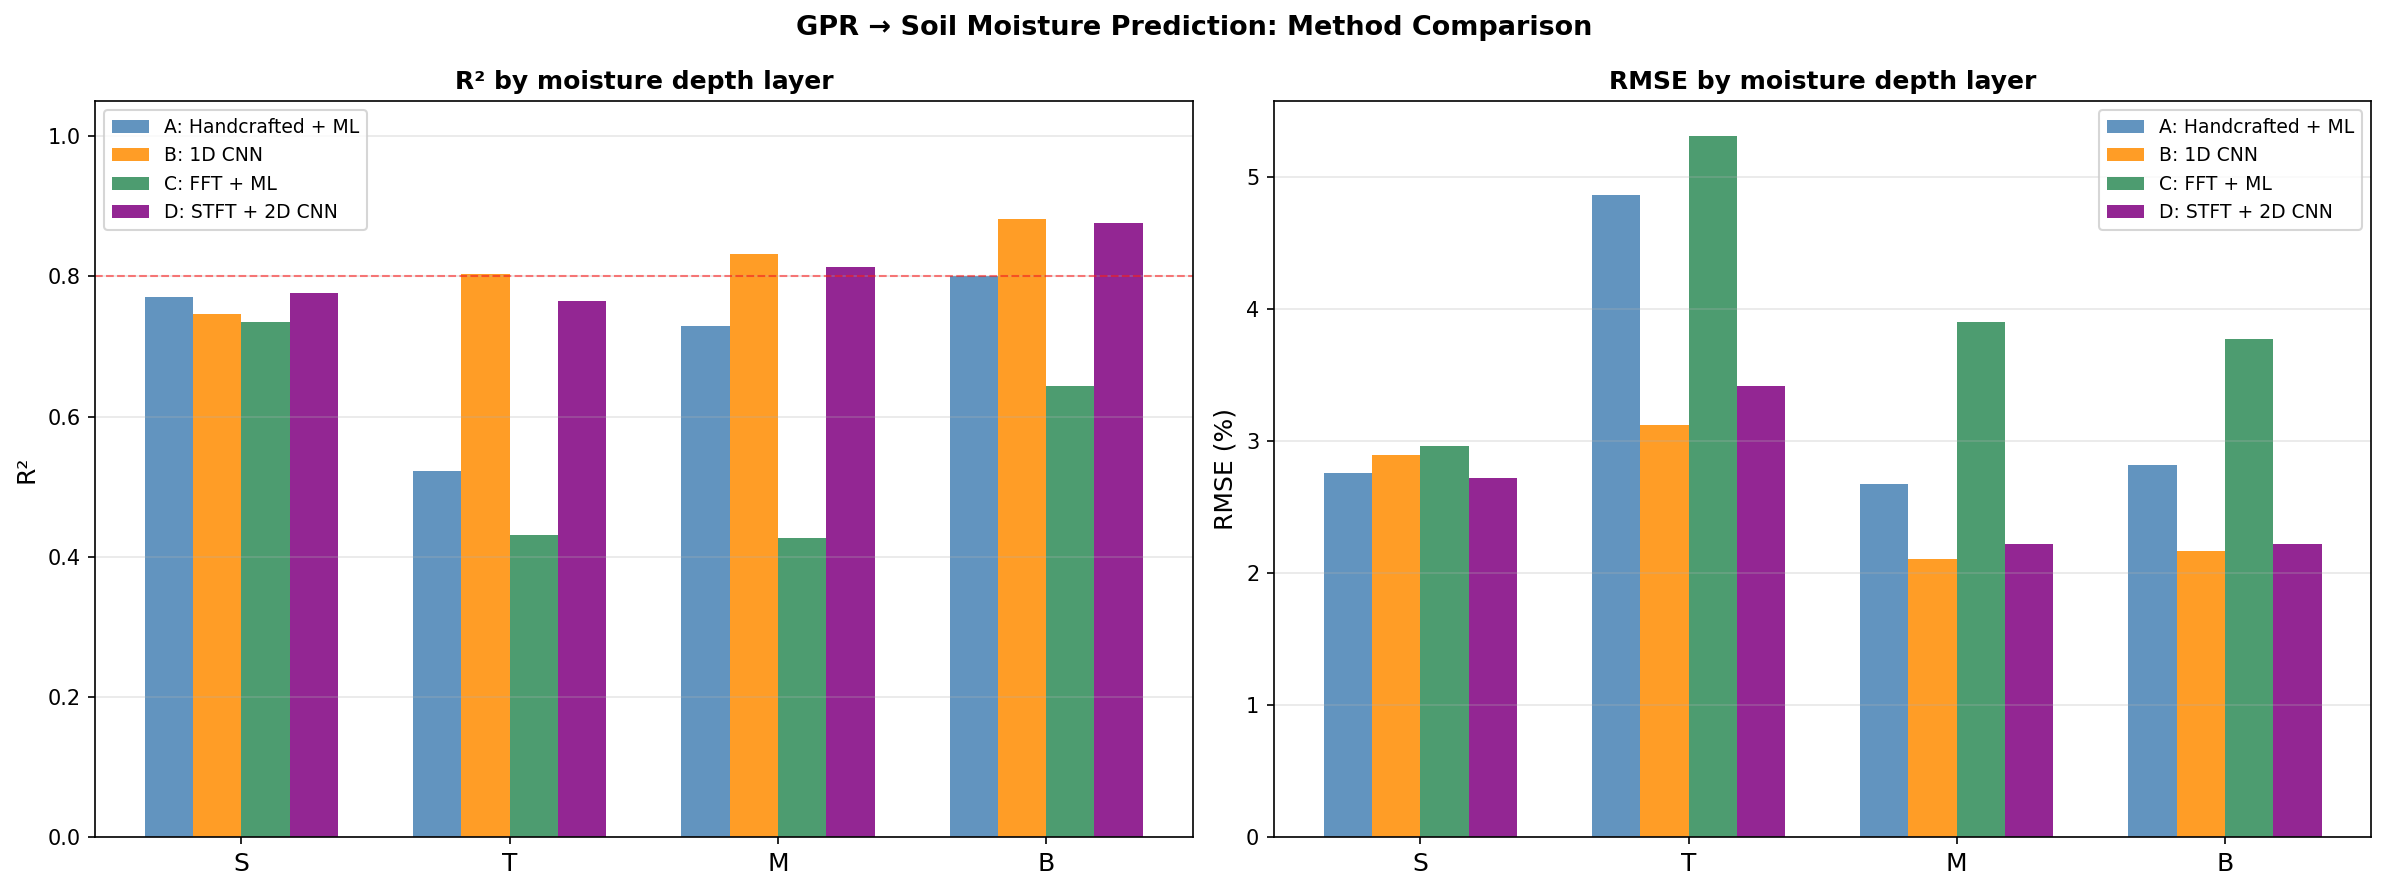
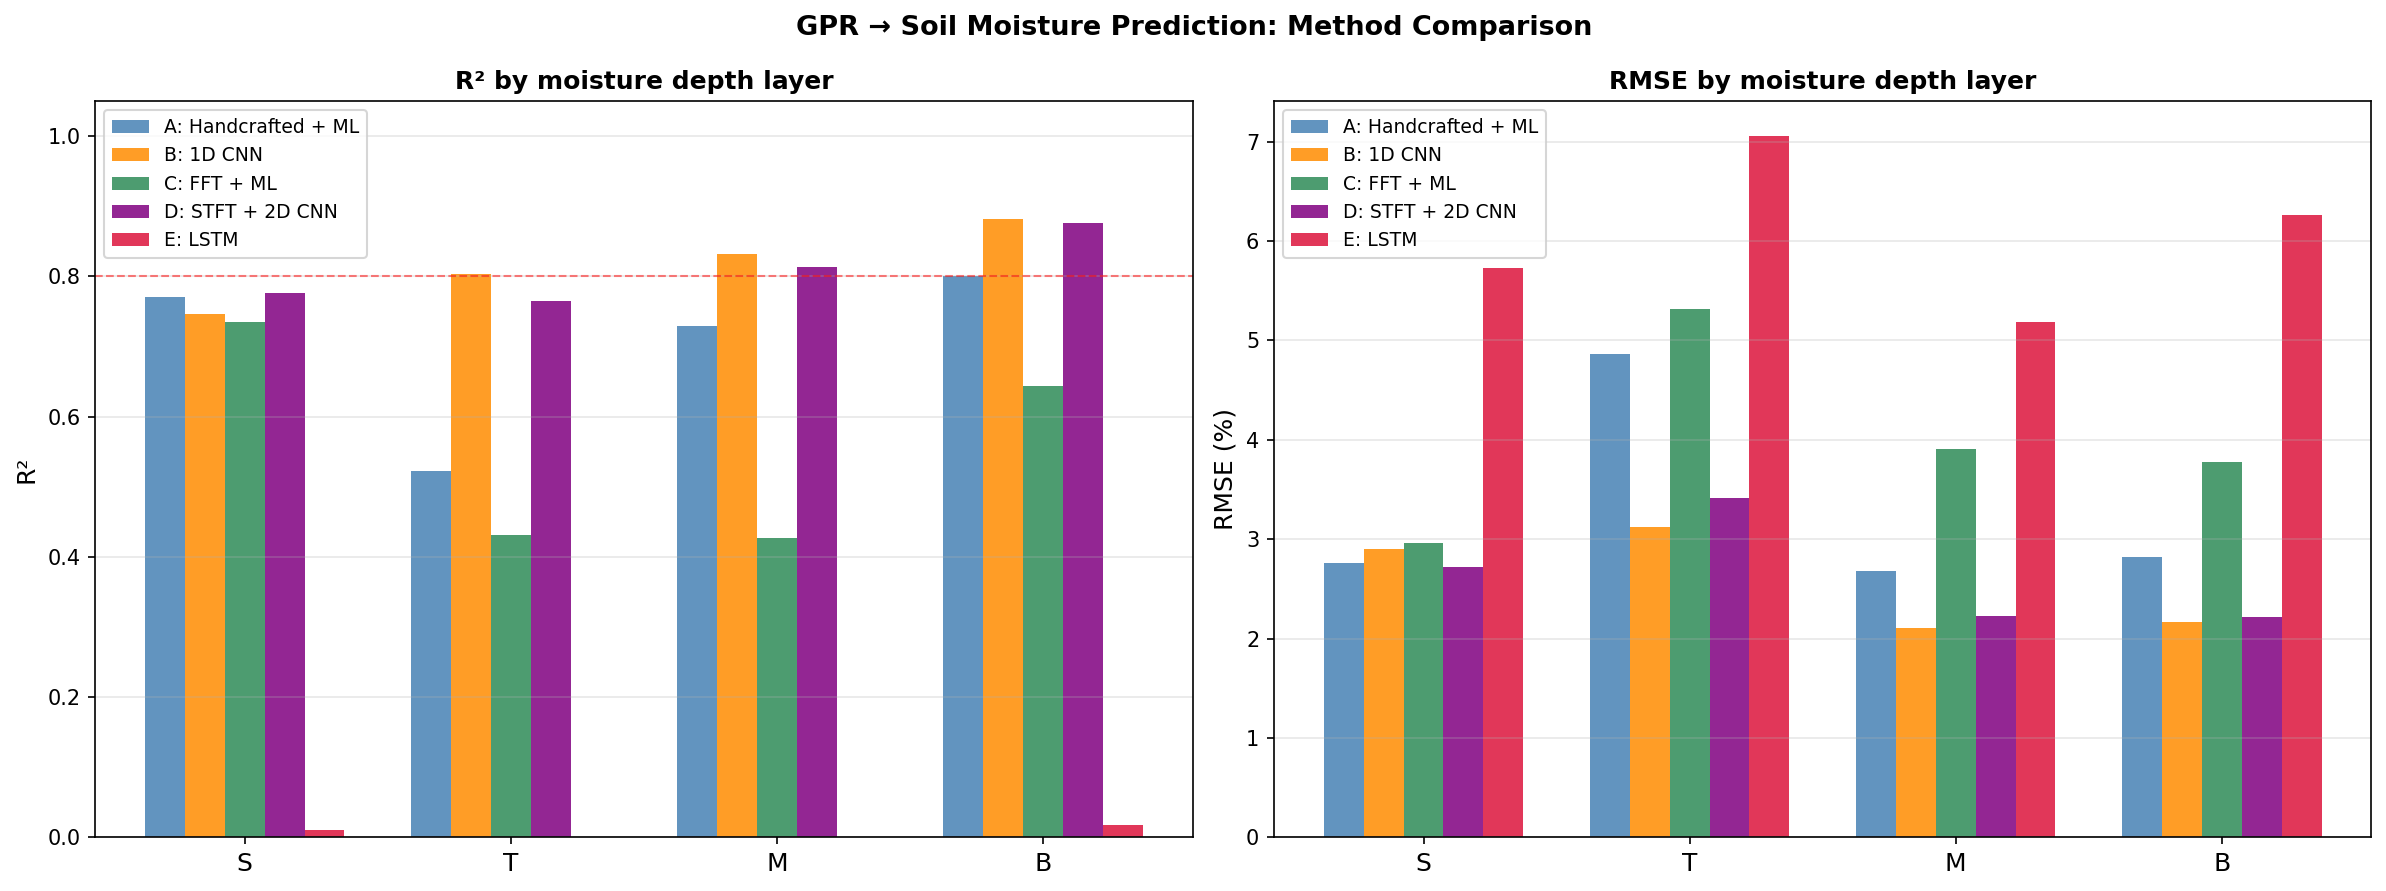
Add LSTM (Method E) and update summary comparison
LSTM R2 near zero across all layers — expected with only 89 training
samples; too few for a recurrent model to generalize. Confirms that
1D CNN is a better fit for this small-dataset regime.

diff --git a/method_e_lstm.py b/method_e_lstm.py
@@ -1,0 +1,142 @@
+"""
+Method E: LSTM — raw aligned A-scan (256 timesteps) → moisture regression
+Input shape: (batch, 256, 1)  — sequence of 256 amplitude samples
+"""
+import numpy as np
+import matplotlib
+matplotlib.use('Agg')
+import matplotlib.pyplot as plt
+from sklearn.metrics import r2_score, mean_squared_error
+
+import torch
+import torch.nn as nn
+from torch.utils.data import TensorDataset, DataLoader
+
+LAYERS = ['S', 'T', 'M', 'B']
+RANDOM_SEED = 42
+torch.manual_seed(RANDOM_SEED)
+np.random.seed(RANDOM_SEED)
+
+X_norm  = np.load('X_norm.npy')       # (112, 256)
+y       = np.load('y_moisture.npy')   # (112, 4)
+idx_tr  = np.load('idx_train.npy')
+idx_te  = np.load('idx_test.npy')
+
+# LSTM expects (batch, seq_len, features) → (N, 256, 1)
+X_tr = torch.tensor(X_norm[idx_tr, :, None], dtype=torch.float32)
+X_te = torch.tensor(X_norm[idx_te, :, None], dtype=torch.float32)
+y_tr = torch.tensor(y[idx_tr], dtype=torch.float32)
+y_te = torch.tensor(y[idx_te], dtype=torch.float32)
+
+y_mean = y_tr.mean(0)
+y_std  = y_tr.std(0).clamp(min=1e-6)
+y_tr_n = (y_tr - y_mean) / y_std
+y_te_n = (y_te - y_mean) / y_std
+
+train_ds = TensorDataset(X_tr, y_tr_n)
+train_dl = DataLoader(train_ds, batch_size=16, shuffle=True)
+
+
+# ── Model ─────────────────────────────────────────────────────────────────
+class LSTMRegressor(nn.Module):
+    def __init__(self, input_size=1, hidden_size=64, num_layers=2, dropout=0.3):
+        super().__init__()
+        self.lstm = nn.LSTM(
+            input_size=input_size,
+            hidden_size=hidden_size,
+            num_layers=num_layers,
+            batch_first=True,
+            dropout=dropout if num_layers > 1 else 0.0,
+        )
+        self.head = nn.Sequential(
+            nn.Linear(hidden_size, 32),
+            nn.ReLU(),
+            nn.Dropout(dropout),
+            nn.Linear(32, 4),
+        )
+
+    def forward(self, x):
+        # x: (batch, seq, 1)
+        out, _ = self.lstm(x)      # out: (batch, seq, hidden)
+        last   = out[:, -1, :]     # take last timestep
+        return self.head(last)
+
+
+model = LSTMRegressor(hidden_size=64, num_layers=2, dropout=0.3)
+optimizer = torch.optim.Adam(model.parameters(), lr=1e-3, weight_decay=1e-4)
+criterion = nn.MSELoss()
+
+best_val_loss = float('inf')
+best_state    = None
+patience = 60; wait = 0
+train_losses = []; val_losses = []
+
+for epoch in range(600):
+    model.train()
+    ep_loss = 0.0
+    for xb, yb in train_dl:
+        optimizer.zero_grad()
+        loss = criterion(model(xb), yb)
+        loss.backward(); optimizer.step()
+        ep_loss += loss.item() * len(xb)
+    ep_loss /= len(X_tr)
+
+    model.eval()
+    with torch.no_grad():
+        val_loss = criterion(model(X_te), y_te_n).item()
+
+    train_losses.append(ep_loss); val_losses.append(val_loss)
+    if val_loss < best_val_loss:
+        best_val_loss = val_loss
+        best_state = {k: v.clone() for k, v in model.state_dict().items()}
+        wait = 0
+    else:
+        wait += 1
+        if wait >= patience:
+            print(f'Early stopping at epoch {epoch+1}')
+            break
+
+model.load_state_dict(best_state)
+model.eval()
+with torch.no_grad():
+    y_pred_n = model(X_te).numpy()
+
+y_pred   = y_pred_n * y_std.numpy() + y_mean.numpy()
+y_actual = y[idx_te]
+
+print(f'\n{"Layer":<5} {"R²":>6} {"RMSE":>7}')
+print('-' * 22)
+r2s, rmses = [], []
+for li, lbl in enumerate(LAYERS):
+    r2   = r2_score(y_actual[:, li], y_pred[:, li])
+    rmse = np.sqrt(mean_squared_error(y_actual[:, li], y_pred[:, li]))
+    r2s.append(r2); rmses.append(rmse)
+    print(f'{lbl:<5} {r2:>6.3f} {rmse:>7.2f}%')
+
+# ── Plot: training curve ──────────────────────────────────────────────────
+fig, ax = plt.subplots(figsize=(8, 4))
+ax.plot(train_losses, label='Train'); ax.plot(val_losses, label='Val')
+ax.set_xlabel('Epoch'); ax.set_ylabel('MSE loss (normalized)')
+ax.set_title('Method E — LSTM: Training curve', fontweight='bold')
+ax.legend(); ax.grid(True, alpha=0.3)
+plt.tight_layout()
+plt.savefig('fig_methodE_training.png', dpi=150, bbox_inches='tight')
+plt.close()
+
+# ── Plot: scatter ─────────────────────────────────────────────────────────
+fig, axes = plt.subplots(1, 4, figsize=(16, 4))
+fig.suptitle('Method E — LSTM: Predicted vs Actual moisture', fontsize=12, fontweight='bold')
+for li, (ax, lbl) in enumerate(zip(axes, LAYERS)):
+    ax.scatter(y_actual[:, li], y_pred[:, li], color='crimson', edgecolors='white', s=60)
+    mn = min(y_actual[:, li].min(), y_pred[:, li].min()) - 1
+    mx = max(y_actual[:, li].max(), y_pred[:, li].max()) + 1
+    ax.plot([mn, mx], [mn, mx], 'k--', lw=1)
+    ax.set_title(f'{lbl} layer\nR²={r2s[li]:.3f}, RMSE={rmses[li]:.2f}%', fontsize=10)
+    ax.set_xlabel('Actual moisture (%)'); ax.set_ylabel('Predicted moisture (%)')
+    ax.grid(True, alpha=0.3)
+plt.tight_layout()
+plt.savefig('fig_methodE_scatter.png', dpi=150, bbox_inches='tight')
+plt.close()
+
+np.save('results_methodE.npy', {'r2': r2s, 'rmse': rmses}, allow_pickle=True)
+print('\nSaved: fig_methodE_training.png, fig_methodE_scatter.png')

diff --git a/summary_comparison.py b/summary_comparison.py
@@ -1,5 +1,5 @@
 """
-Summary comparison of all 4 methods.
+Summary comparison of all 5 methods.
 """
 import numpy as np
 import matplotlib
@@ -29,11 +29,16 @@ resD = np.load('results_methodD.npy', allow_pickle=True).item()
 r2_D  = np.array(resD['r2'])
 rms_D = np.array(resD['rmse'])
 
+resE = np.load('results_methodE.npy', allow_pickle=True).item()
+r2_E  = np.array(resE['r2'])
+rms_E = np.array(resE['rmse'])
+
 methods = {
     'A: Handcrafted\n+ ML':   {'r2': r2_A,  'rmse': rms_A,  'color': 'steelblue'},
     'B: 1D CNN':               {'r2': r2_B,  'rmse': rms_B,  'color': 'darkorange'},
     'C: FFT\n+ ML':            {'r2': r2_C,  'rmse': rms_C,  'color': 'seagreen'},
     'D: STFT\n+ 2D CNN':       {'r2': r2_D,  'rmse': rms_D,  'color': 'purple'},
+    'E: LSTM':                 {'r2': r2_E,  'rmse': rms_E,  'color': 'crimson'},
 }
 
 # ── Print table ────────────────────────────────────────────────────────────
@@ -51,11 +56,11 @@ for mname, res in methods.items():
 fig, axes = plt.subplots(1, 2, figsize=(16, 6))
 
 ax = axes[0]
-x = np.arange(4); width = 0.18
+x = np.arange(4); width = 0.15
 for mi, (mname, res) in enumerate(methods.items()):
     ax.bar(x + mi * width, res['r2'], width,
            label=mname.replace('\n', ' '), color=res['color'], alpha=0.85)
-ax.set_xticks(x + 1.5 * width); ax.set_xticklabels(LAYERS, fontsize=12)
+ax.set_xticks(x + 2 * width); ax.set_xticklabels(LAYERS, fontsize=12)
 ax.set_ylabel('R²', fontsize=12); ax.set_ylim([0, 1.05])
 ax.set_title('R² by moisture depth layer', fontsize=12, fontweight='bold')
 ax.legend(fontsize=9); ax.grid(True, axis='y', alpha=0.3)
@@ -65,7 +70,7 @@ ax = axes[1]
 for mi, (mname, res) in enumerate(methods.items()):
     ax.bar(x + mi * width, res['rmse'], width,
            label=mname.replace('\n', ' '), color=res['color'], alpha=0.85)
-ax.set_xticks(x + 1.5 * width); ax.set_xticklabels(LAYERS, fontsize=12)
+ax.set_xticks(x + 2 * width); ax.set_xticklabels(LAYERS, fontsize=12)
 ax.set_ylabel('RMSE (%)', fontsize=12)
 ax.set_title('RMSE by moisture depth layer', fontsize=12, fontweight='bold')
 ax.legend(fontsize=9); ax.grid(True, axis='y', alpha=0.3)
